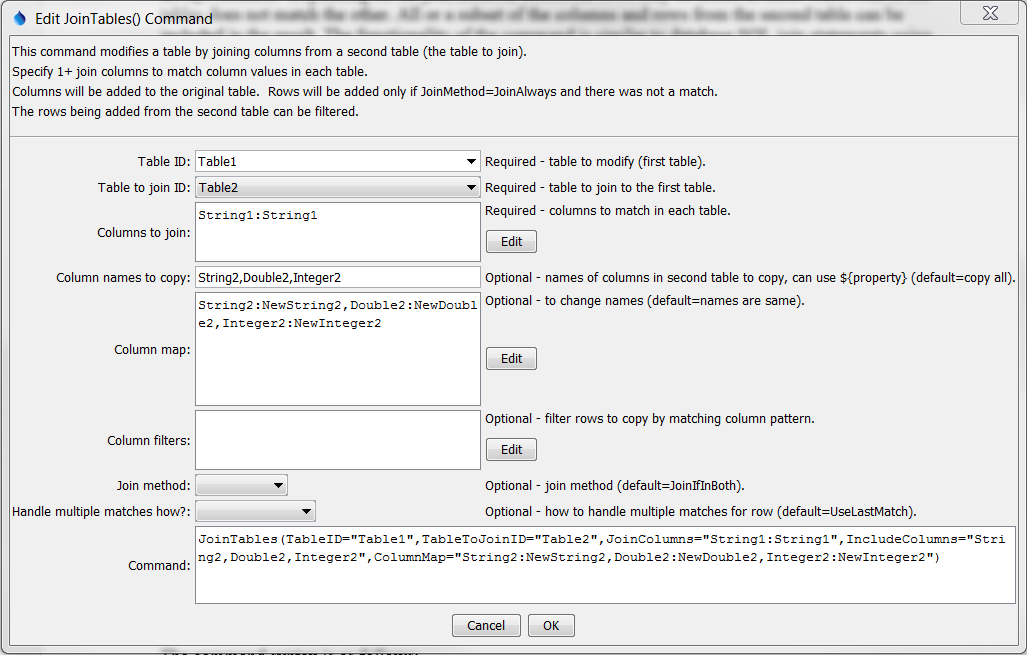
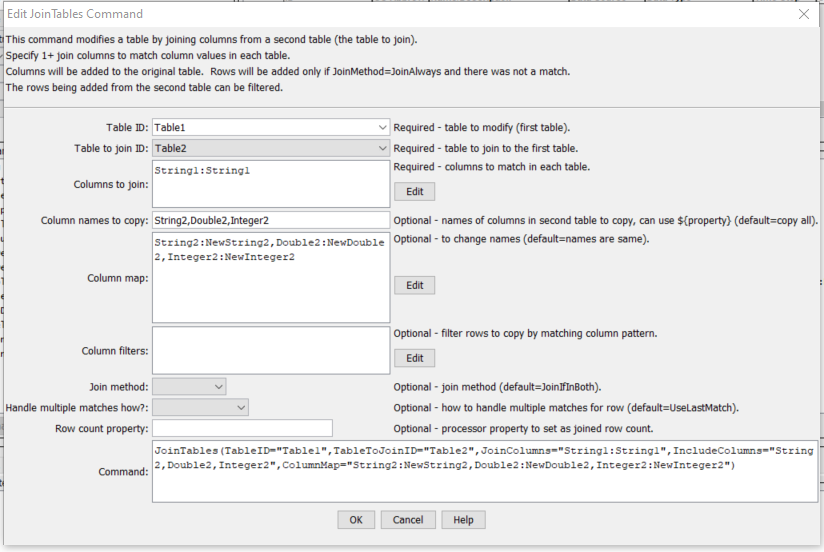
Update JoinTables to have RowCountProperty, issue #61
Also add ToMixedCase to ManipulateTableString.

Changed region(s): [[0.0, 0.0, 1.0, 1.0]]

diff --git a/mkdocs-project/docs/command-ref/JoinTables/JoinTables.md b/mkdocs-project/docs/command-ref/JoinTables/JoinTables.md
@@ -52,6 +52,7 @@ Command Parameters
 |`ColumnFilters`|Filters that limit the number of rows being processed, using the syntax, and can use `${Property}` syntax:<br>`Table2Column1:FilterPattern1, Table2Column2:FilterPattern2`<br>Patterns can use `*` to indicate wildcards for matches.  Only string values can be checked (other data types are converted to strings for comparison).  Comparisons are case-independent.  All patterns must be matched in order to copy the row.  In the future a command may be added to perform queries on tables, similar to SQL for databases.|No filtering.|
 |`JoinMethod`|Indicate how the tables should be joined:<br><ul><li>`JoinIfInBoth` – only add column values from the second table that have matching values in columns specified by `JoinColumns`</li><li>`JoinAlways` – behave as if `JoinIfInBoth` is used and also add rows even if join column values do not match.  Rows in the second table that don’t match will result in new rows at the bottom of the table, with null/missing values for columns in the first table.</li></ul>|`JoinIfInBoth`|
 |`HandleMultipleJoinMatchesHow`|Indicate how to handle multiple matches resulting from the join:<ul><li>`NumberColumns` – the first match will result in the requested join columns being added to the first table; subsequent matches will result in new columns with `_2`, `_3`, etc. appended to the column names.</li><li>`UseLastMatch` – the join will occur once and subsequent matches will result in the new column values being overwritten with the last match.  In other words, new rows are not added for multiple matches – the same row is overwritten.</li></ul>|`UseLastMatch`|
+|`RowCountProperty`|The number of rows that were joined.  This can be used with [`If`](../If/If.md) and [`Message`](../Message/Message.md) commands to check that joining two tables resulted in an expected number of matches. |
 
 ## Examples ##
 

diff --git a/mkdocs-project/docs/appendix-release-notes/release-notes-13.md b/mkdocs-project/docs/appendix-release-notes/release-notes-13.md
@@ -60,7 +60,7 @@ additional functionality has been added for strings, and string operations have 
 of the fill period even if non-missing values are outside of that period
 * ![change](change.png) [13.03.00] Update the [`ManipulateTableString`](../command-ref/ManipulateTableString/ManipulateTableString.md) to
 handle conversion of floating point numbers (as strings) to integers and properly round.
-Also add `ToLowerCase` and `ToUpperCase` conversions.
+Also add `ToLowerCase`, `ToMixedCase`, and `ToUpperCase` conversions.
 * ![change](change.png) [13.03.00] Update the [`NewTable`](../command-ref/NewTable/NewTable.md) command to support arrays.
 * ![change](change.png) [13.03.00] Update the [`ProcessTSProduct`](../command-ref/ProcessTSProduct/ProcessTSProduct.md)
 command to output the time series product file to reflect the full product definition.

diff --git a/mkdocs-project/docs/command-ref/ManipulateTableString/ManipulateTableString.md b/mkdocs-project/docs/command-ref/ManipulateTableString/ManipulateTableString.md
@@ -77,6 +77,7 @@ Operators and Parameter Requirements
 |`ToDouble` | Convert the first input to a double precision object. |
 |`ToInteger` | Convert the first input to an integer object.  If the input string contains a floating point number, the number will be rounded. |
 |`ToLowerCase` | Convert the string to lower case. |
+|`ToMixedCase` | Convert the string to mixed case, where the first letter of each word is capitalized and other characters are lowercase (e.g., `Mixed Case`). Words are separated by whitespace.  Words that are concatenated are treated as one word (e.g., `Mixedcase` because the command does not know that `case` is a separate word).|
 |`ToUpperCase` | Convert the string to upper case. |
 
 ## Examples ##
